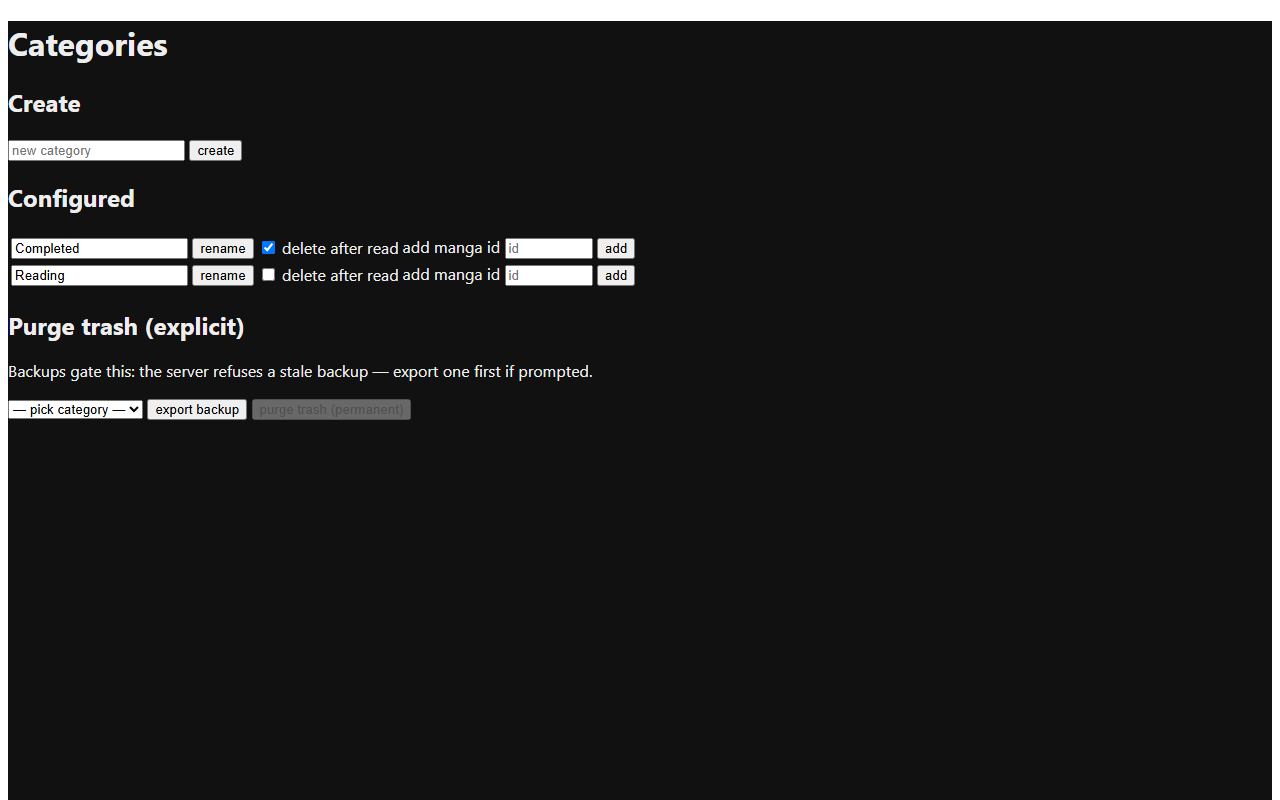
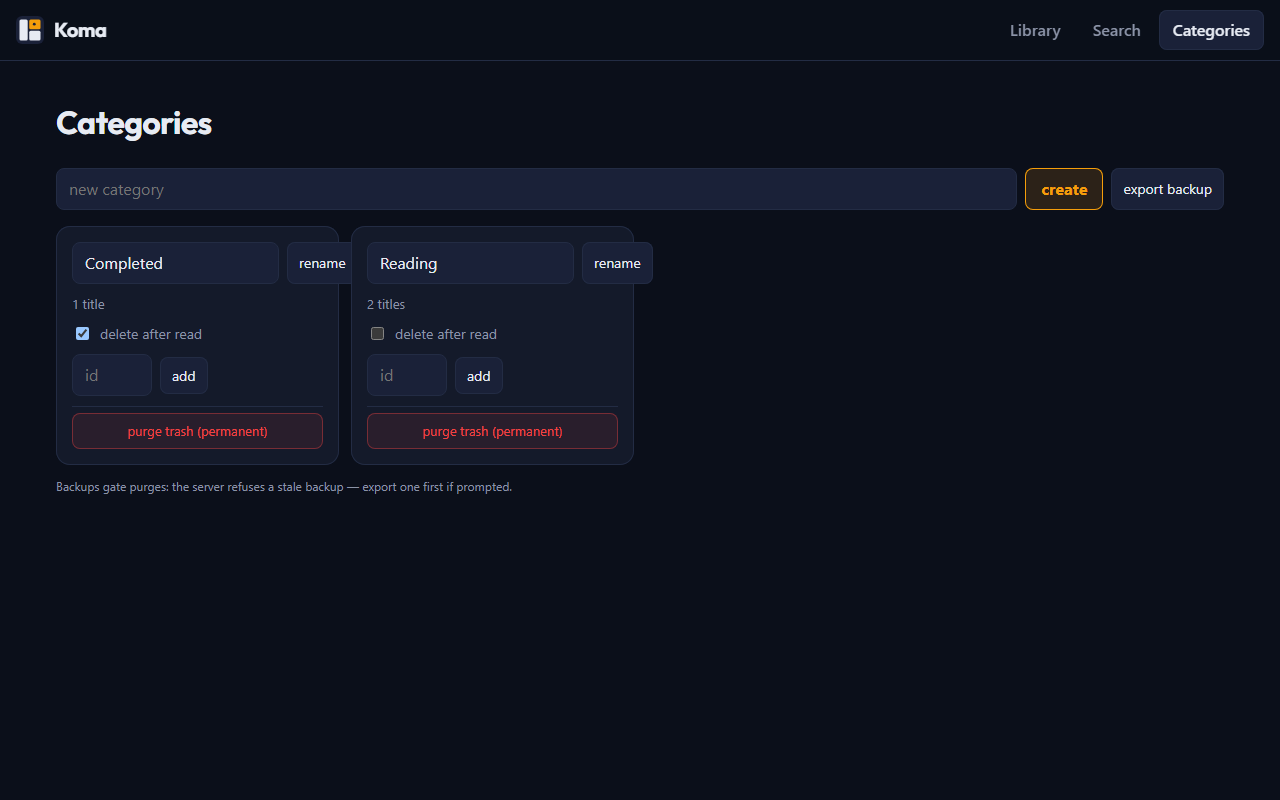
docs(design): finish records — DESIGN.md, design.json, new-UI screenshots, README
- README screenshots regenerated on the overhaul (real MangaDex covers + downloaded
  chapter pages); detail shot added; search-gap caveat retired (the flow ships).
- DESIGN.md + .impeccable/design.json written from the built world; impeccable
  detect clean on all eight changed targets; shell first-run gap recorded.

Changed region(s): [[0.0, 0.0, 1.0, 1.0]]

diff --git a/web/tests/screenshots.spec.ts b/web/tests/screenshots.spec.ts
@@ -55,3 +55,11 @@ test('categories (desktop)', async ({ page }) => {
 	await page.waitForTimeout(1500);
 	await page.screenshot({ path: `${OUT}/screenshot-categories.png` });
 });
+
+test('manga detail (desktop)', async ({ page }) => {
+	await setup(page);
+	await page.setViewportSize({ width: 1280, height: 800 });
+	await page.goto(`${UI}/manga/1`);
+	await page.waitForTimeout(2500);
+	await page.screenshot({ path: `${OUT}/screenshot-detail.png` });
+});

diff --git a/DESIGN.md b/DESIGN.md
@@ -1,0 +1,56 @@
+# Design — Koma (Ink & Amber)
+
+Written from the built world (M4, 2026-11-24). The direction contract lives in
+`.impeccable/surfaces/web-src-routes-page-svelte.md`; this records what shipped.
+
+## Tokens
+
+- Ground ink `#0b0f1a`; panel `#141a2a`; panel-2 `#1a2138`; line `#232c44`
+- Text `#e7ebf3`; secondary `#8b93a7`
+- Amber accent `#f59e0b` (dim: 14% alpha wash) — active/selected states, the progress
+  strip, primary actions
+- State colors: ok `#34d399` (downloaded), queued `#60a5fa`, danger `#ef4444`
+  (failed, purge)
+- Shape: 14px card radius, 8px control radius; 12px gutters, 16px padding
+
+## Type
+
+- Outfit 500/700, self-hosted latin subsets (woff2) for display/headings; -0.02em tracking
+- system-ui stack for body; tabular numerals in counters and chapter numbers
+
+## Components
+
+- App shell: top bar (panel mark + wordmark, desktop nav ≥768px), mobile bottom tabs with
+  the lit amber panel-dot on the active tab
+- Cover panels: 2:3 aspect cards, inset line frame, hover lift with amber frame, the
+  panel-mark placeholder when no cover exists
+- Category chips: pills; active state is the amber wash with an amber inset ring
+- Chapter rows: tabular number, state badge (color + text, never color alone), page count,
+  read (amber ring link) / download / working states
+- Category cards: inline-editable name, member count, consent-gated destructive flag,
+  per-card purge with confirm; membership assign
+- Reader chrome: centered sticky pill (strip marker + page counter), amber progress strip
+  along the bottom edge
+- Messages: amber wash notice, red wash alert
+
+## Signature move
+
+The manga panel: covers as panels in a page grid, and the reading position drawn as the
+amber strip. The frame and the progression carry the identity — no other decoration.
+
+## Motion
+
+Hover lift (2px translate + shadow, 160ms ease) on cover panels; strip width 240ms ease.
+Nothing else moves.
+
+## Browser surfaces
+
+Selection in the amber wash; focus-visible 2px amber outline; thin dark scrollbars;
+inputs on the panel-2 ground with line frame, amber border on focus.
+
+## Gaps recorded
+
+- The desktop shell has no first-run token prompt (localStorage-only credentials;
+  `.dojo/findings.md` 2026-11-24).
+- Library covers depend on the source providing a cover URL (search-added titles have
+  them; `.tachibk` imports render the panel placeholder).

diff --git a/README.md b/README.md
@@ -33,15 +33,23 @@ reload or return on another device and you land exactly where you stopped.
   <em><sub>desktop and phone — rotate freely; spreads fit width in landscape.</sub></em>
 </p>
 
-## Library and categories
+## Library, detail, categories — and search to feed them
+
+Search hits MangaDex directly (tier A) with source-badged results; adding a title stores
+its cover, drops it into a category, and the detail page drives chapter downloads through
+the supervised queue.
 
 <p align="center">
   <a href=".github/assets/screenshot-library.png">
-    <img src=".github/assets/screenshot-library.png" width="380" alt="library — imported from a real .tachibk backup">
+    <img src=".github/assets/screenshot-library.png" width="340" alt="library — a manga page of cover panels">
   </a>
-  &nbsp;&nbsp;
+  &nbsp;
+  <a href=".github/assets/screenshot-detail.png">
+    <img src=".github/assets/screenshot-detail.png" width="340" alt="manga detail — chapter states, download and read actions">
+  </a>
+  &nbsp;
   <a href=".github/assets/screenshot-categories.png">
-    <img src=".github/assets/screenshot-categories.png" width="380" alt="category configuration — destructive flags behind explicit consent">
+    <img src=".github/assets/screenshot-categories.png" width="340" alt="categories — destructive flags behind explicit consent">
   </a>
 </p>
 
@@ -91,9 +99,10 @@ Raspberry Pi Zero 2 W): SSRF-guarded outbound fetch with per-source rate budgets
 MangaDex adapter with At-Home-compliant downloads; a DB-backed download queue; idempotent
 library auto-update; bearer-token auth on every route; path-safe page serving; the windowed
 reader with resumable progress; category config with consent-gated destructive flags and
-backup-gated purge; staged `.tachibk` (Mihon/Tachiyomi) import. SPA pages: library, reader,
-categories. Search and adding titles ride the gRPC API today (the core loop is proven
-end-to-end on-device); a dedicated search page is future UI work.
+backup-gated purge; staged `.tachibk` (Mihon/Tachiyomi) import; the full UI flow — search with
+source badges, add-to-category, detail with chapter states, self-driving downloads, the
+windowed reader, consent-gated categories. SPA pages: library, search, detail, reader,
+categories.
 
 ## Running it
 

diff --git a/.dojo/findings.md b/.dojo/findings.md
@@ -47,3 +47,9 @@
   browser, executing the very client methods the LSP claimed were missing. Findings
   recorded as refuted; if the LSP re-reports them on unchanged code, they are known
   stale artifacts, not regressions.
+
+## 2026-11-24 — Shell first-run UX gap (exposed by the desktop shot)
+- The Tauri shell has no token-entry UI; the SPA reads the bearer token from localStorage
+  only — a first-run webview has none, so the shell opens to an auth-error library.
+- The README shot bootstrapped the webview via a one-off helper page (removed; its values
+  were capture-specific). Future work: a first-run token prompt in the shell or SPA.
